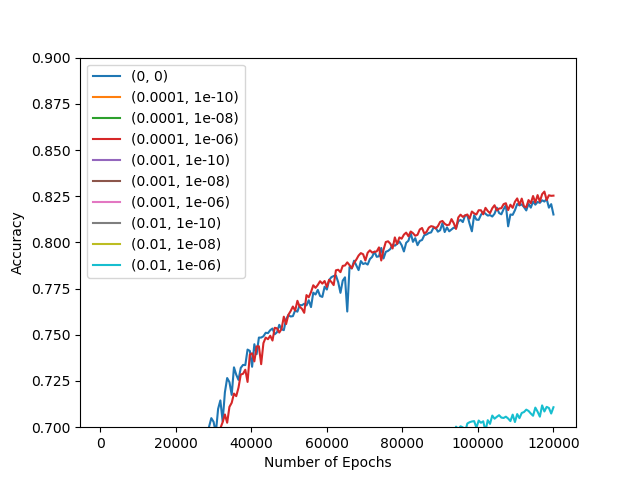
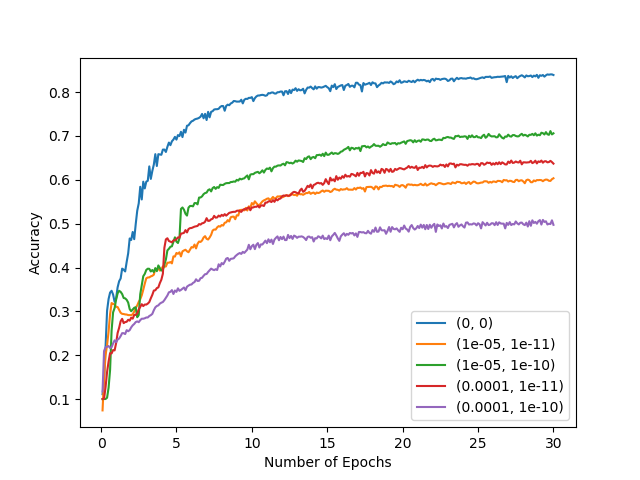
new hyper

diff --git a/experiment_1_epochs/visualize_experiment_1.py b/experiment_1_epochs/visualize_experiment_1.py
@@ -8,14 +8,13 @@ from os.path import join
 
 experiment_1_data_path = join(root_directory, dataset_name, 'final_data', 'experiment_1_data.pkl')
 
-# first, just plot the learning curves
+#  VISUALIZATION 1: just plot the learning curves to tune hyperparameters
 results = pickle.load(open(experiment_1_data_path, 'rb'))
 for key in results:
     result_df = pd.DataFrame(results[key])
     result_df['epoch'] = result_df['batch_num'] * 10 / 60000
-    result_df[str(key)] = result_df['accuracy']
 
-    plt.plot(result_df['batch_num'], result_df[str(key)], label=key)
+    plt.plot(result_df['epoch'], result_df['accuracy'], label=key)
 
 plt.xlabel('Number of Epochs')
 plt.ylabel('Accuracy')
@@ -23,3 +22,36 @@ plt.ylabel('Accuracy')
 plt.legend()
 plt.savefig(os.path.join(root_directory, dataset_name, 'result_images', 'experiment_1_accuracy.png'))
 plt.show()
+plt.clf()
+
+
+#  VISUALIZATION 2: see if the metalearner is actually converging before the learner
+#  ANSWER: gradients are actually getting LARGER
+best_result = results[(10 ** -4, 10 ** -10)]
+result_df = pd.DataFrame(best_result)
+result_df['epoch'] = result_df['batch_num'] * 10 / 60000
+result_df['scaled_learner_gradient_norm'] = result_df['learner_gradient_norm'] / result_df['learner_gradient_norm'].mean()
+result_df['scaled_metalearner_gradient_norm'] = result_df['metalearner_gradient_norm'] / result_df['metalearner_gradient_norm'].mean()
+plt.plot(result_df['epoch'], result_df['scaled_learner_gradient_norm'], label='Scaled Learner Gradient')
+plt.plot(result_df['epoch'], result_df['scaled_metalearner_gradient_norm'], label='Scaled Metalearner Gradient')
+plt.xlabel('Number of Epochs')
+plt.ylabel('Gradient')
+plt.legend()
+
+plt.savefig(os.path.join(root_directory, dataset_name, 'result_images', 'experiment_1_gradient_comparison.png'))
+plt.show()
+plt.clf()
+
+
+#  VISUALIZATION 3: see if the metalearner outputs are related to the gradients
+best_result = results[(10 ** -4, 10 ** -10)]
+result_df = pd.DataFrame(best_result)
+result_df['epoch'] = result_df['batch_num'] * 10 / 60000
+plt.scatter(result_df['learner_gradient_norm'], result_df['hebbian_update_norm'], c=result_df['epoch'])
+plt.ylim((0, 0.00000002))
+plt.xlabel('Gradient Norm')
+plt.ylabel('Hebbian Update Norm')
+plt.legend()
+plt.savefig(os.path.join(root_directory, dataset_name, 'result_images', 'experiment_1_gradient_vs_Hebb.png'))
+plt.show()
+plt.clf()

diff --git a/experiment_1_epochs/run_experiment_1.py b/experiment_1_epochs/run_experiment_1.py
@@ -20,7 +20,10 @@ results = {(0, 0): control_frame.train_model(phi=30, theta=1, intermediate_accur
 # for metalearner_learning_rate in [10 ** (-4), 10 ** (-3), 10 ** (-2)]:
 #     for update_rate in [10 ** (-10), 10 ** (-8), 10 ** (-6)]:
 for metalearner_learning_rate in [10 ** (-5), 10 ** (-4)]:
-    for update_rate in [10 ** (-11), 10 ** (-10)]:
+    for update_rate in [10 ** (-6), 10 ** (-5)]:
         results[(metalearner_learning_rate, update_rate)] = test_mllr_update_pair(metalearner_learning_rate,
                                                                                   update_rate)
         pickle.dump(results, open(experiment_1_data_path, 'wb'))
+
+
+
